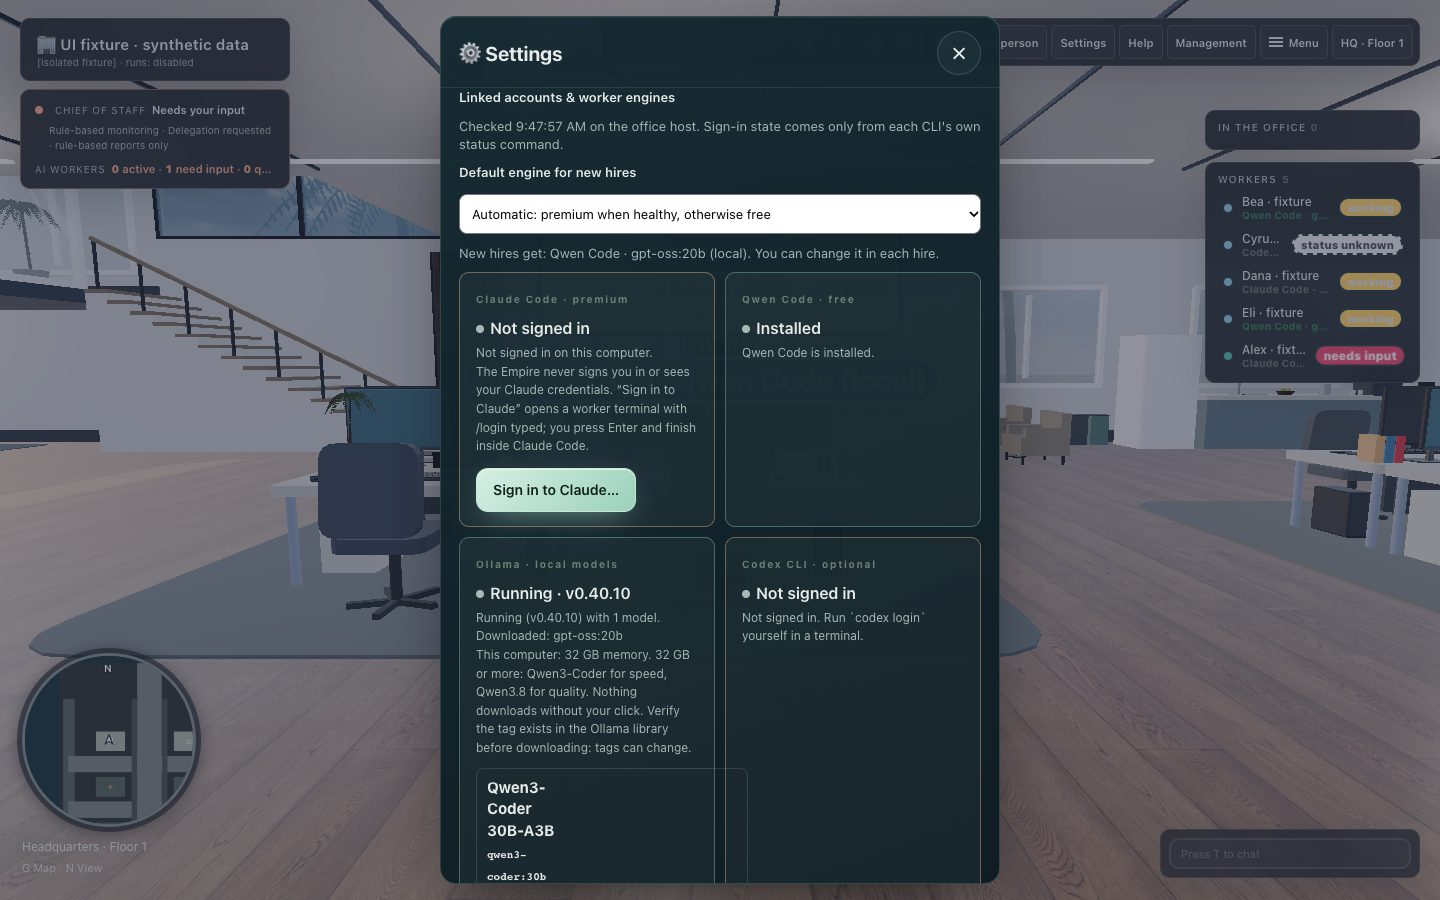
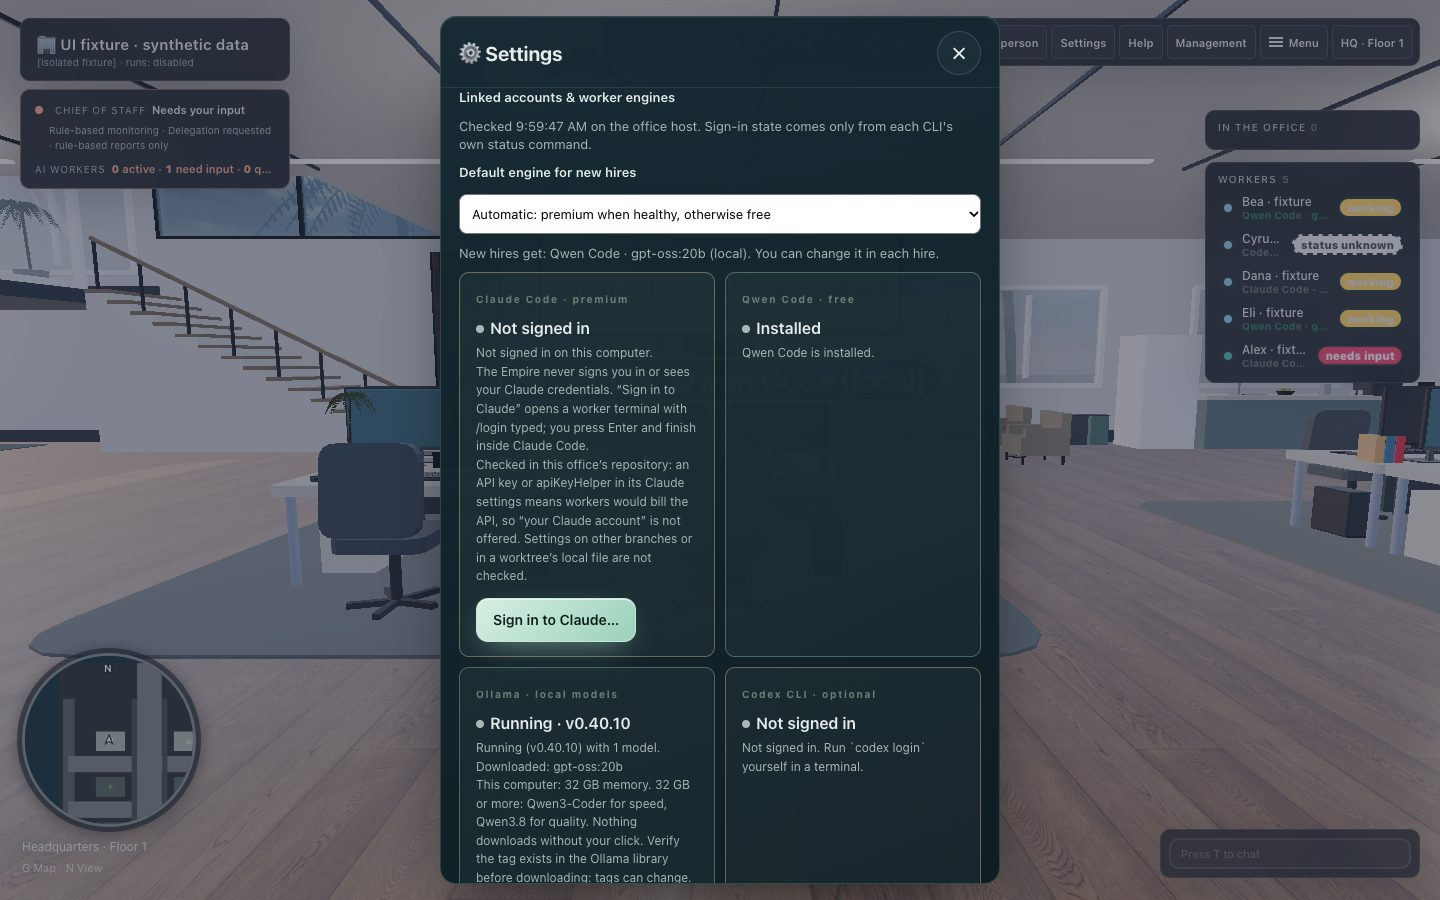
FREE-01 re-review: docs and panel note on where sign-in is probed; report updated

diff --git a/src/client/ui/engines.ts b/src/client/ui/engines.ts
@@ -52,6 +52,7 @@ export function linkedAccountsSection(opts: { onSignIn: () => void }) {
     const signIn = h('button.btn.primary', { type: 'button', onclick: opts.onSignIn, disabled: !s.claude.installed }, 'Sign in to Claude…');
     const claude = card('Claude Code · premium', cliTone(s.claude), !s.claude.installed ? 'Not installed' : s.claude.loggedIn ? `Signed in${s.claude.plan ? ` · ${s.claude.plan}` : ''}` : s.claude.expired ? 'Sign-in expired' : s.claude.loggedIn === false ? 'Not signed in' : 'Unknown', s.claude.detail,
       h('p.setting-note', {}, 'The Empire never signs you in or sees your Claude credentials. “Sign in to Claude” opens a worker terminal with /login typed; you press Enter and finish inside Claude Code.'),
+      h('p.setting-note', {}, 'Checked in this office’s repository: an API key or apiKeyHelper in its Claude settings means workers would bill the API, so “your Claude account” is not offered. Settings on other branches or in a worktree’s local file are not checked.'),
       h('div.sector-actions', {}, signIn));
     const codex = card('Codex CLI · optional', cliTone(s.codex), !s.codex.installed ? 'Not installed' : s.codex.loggedIn ? 'Signed in' : s.codex.loggedIn === false ? 'Not signed in' : 'Unknown', s.codex.detail);
     const qwen = card('Qwen Code · free', s.qwen.installed ? 'ok' : 'off', s.qwen.installed ? 'Installed' : 'Not installed', s.qwen.detail);

diff --git a/docs/team/reports/free-01.md b/docs/team/reports/free-01.md
@@ -65,7 +65,22 @@ Each fix has failing-before tests in `tests/engines.test.ts` (7 new; 21 engine t
    - `GET /api/engines?refresh=1` is rate-floored to 10 s.
    - A saved engine this version doesn't recognise keeps the worker with status unknown and the label "Unknown engine", logs a warning and refuses to resume. It is never switched to Claude.
 
-Re-run after the fixes: typecheck pass, `npm test` 736/736, build pass, engines-ui-check 24/24, mobile-ui-check 411/411.
+Re-run after the fixes: typecheck pass, `npm test` 736/736 (740/740 after the re-review fixes), build pass, engines-ui-check 24/24, mobile-ui-check 411/411.
+
+## Re-review fixes (2026-10-24: accept with fixes)
+
+4 new failing-before tests. They failed on the previous `src` and pass after the fix.
+
+1. **Launch gate on the server.** `LinkedAccounts.gate` is synchronous and works against a probe no older than 15 s. Rules:
+   - "Auto" or no engine resolves to the recommended engine.
+   - An unusable or unknown engine is refused with its reason.
+   - A missing or stale probe refuses with "checking" and starts a probe (the 10 s floor applies).
+   - `WorkerManager.spawn` enforces the gate for every agent spawn, including the queue and stale clients. Only the "Sign in to Claude" helper is exempt.
+   - The queue checks `engineBlocker()` before journaling a launch. A refused task stays `queued` with `error` set, gets one toast per distinct reason, and is seated on a later pump; `onProbed` re-pumps.
+   - The client hire path waits for a stale probe and then hires once.
+   - Custom `--agent` commands and fake-process integration tests without `engines` skip the gate.
+2. **Probe in the office repo.** `claude auth status` runs with `cwd` set to the office repository, so a project `.claude/settings.json` helper is seen. Tested with a fake CLI that answers differently depending on `pwd`. Limitation, documented in ENGINES.md and the panel: other branches' settings and a worktree's `settings.local.json` are not probed.
+3. **Minor.** Text classification checks the key/helper/console patterns first. When both the subscription and the API-key patterns match, it returns no method (fail closed).
 
 ## Deviations and limits
 

diff --git a/docs/ENGINES.md b/docs/ENGINES.md
@@ -30,6 +30,8 @@ How it's wired: the Empire starts `qwen --model <model>` with `OPENAI_BASE_URL=h
 - Install Claude Code, then sign in **inside Claude Code** on this computer with `/login`. In Settings, **Sign in to Claude…** opens a worker terminal with `/login` already typed. You press Enter and finish in Claude Code's own browser flow.
 - The Empire never offers its own Claude sign-in. It never reads, copies or stores Claude credentials, credential files or the Keychain. The Linked accounts panel shows only what `claude auth status` prints (signed in or not, method, plan, expiry). It warns you when your sign-in is about to expire.
 - Workers on "your Claude account" get `ANTHROPIC_API_KEY` and `ANTHROPIC_AUTH_TOKEN` removed from their environment. That way your subscription is really used and the API isn't billed without you knowing. An `apiKeyHelper` set in your own Claude settings can't be removed from outside Claude Code. If `claude auth status` reports an API-key or helper method, the panel warns you.
+- The Empire runs `claude auth status` in the office repository, so an `apiKeyHelper` or `env.ANTHROPIC_API_KEY` in that project's `.claude/settings.json` counts too. If the reported method is not your subscription, "your Claude account" can't be chosen. This applies to the hire dialog, the default engine and queued tasks alike: the server refuses the launch and says why. Limitation: a different `.claude/settings.json` on another branch, or a worktree's own untracked `.claude/settings.local.json`, is not probed.
+- Queued tasks use the default engine ("Automatic" picks a healthy premium engine, otherwise the free one). When no engine is ready, the task stays queued with the reason and starts once one is.
 - Use your subscription only for your own jobs, on your own computer.
 
 ## API keys
